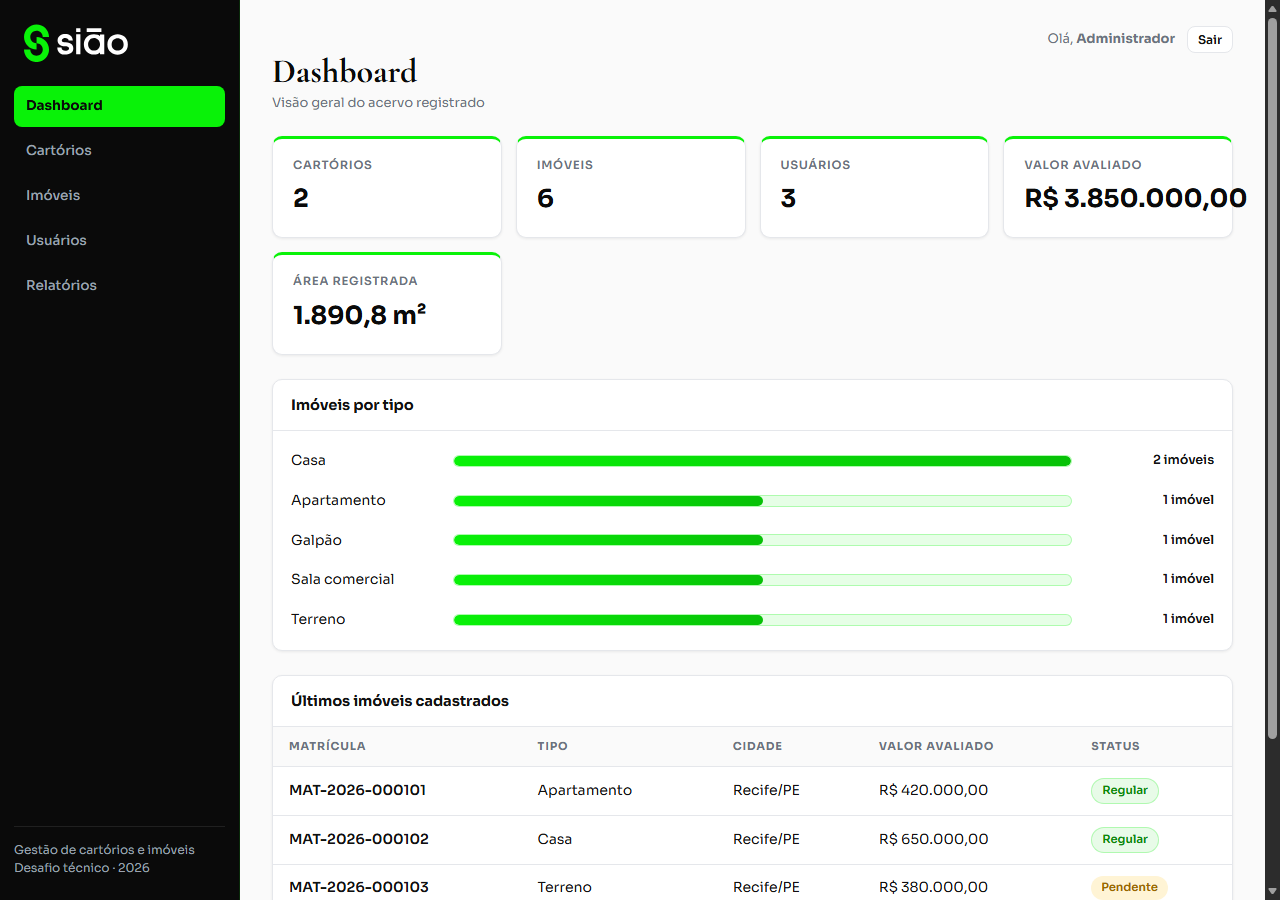
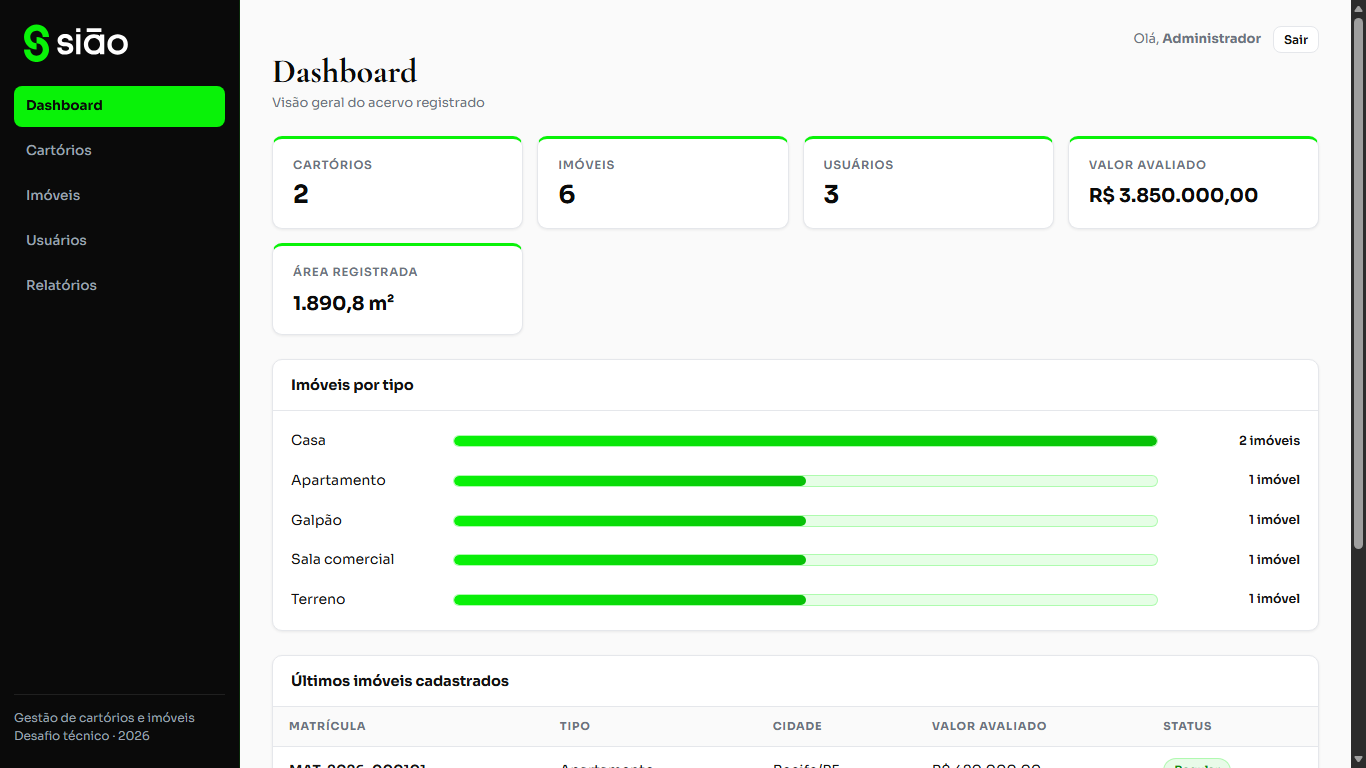
Tabela de imóveis cabe 100% na tela sem rolagem horizontal
- Cartório vira sublinha da matrícula (uma coluna a menos e sem
  nome longo quebrando em 5 linhas)
- Valor e área fundidos em uma coluna (valor principal, área sublinha)
- Células mais densas (padding 12px, corpo 13.5px) e ações sem quebra
- Verificado em 1280px e 1366px; screenshots da docs atualizados

diff --git a/frontend/src/pages/ImoveisPage.tsx b/frontend/src/pages/ImoveisPage.tsx
@@ -228,14 +228,12 @@ export function ImoveisPage() {
             <table>
               <thead>
                 <tr>
-                  <th>Matrícula</th>
+                  <th>Matrícula / Cartório</th>
                   <th>Tipo</th>
                   <th>Endereço</th>
                   <th>Proprietário</th>
-                  <th>Área</th>
-                  <th>Valor avaliado</th>
+                  <th>Valor / Área</th>
                   <th>Status</th>
-                  <th>Cartório</th>
                   <th style={{ textAlign: 'right' }}>Ações</th>
                 </tr>
               </thead>
@@ -243,7 +241,10 @@ export function ImoveisPage() {
                 {lista.dados.map((imovel) => (
                   <tr key={imovel.id}>
                     <td>
-                      <span className="principal-cell">{imovel.matricula}</span>
+                      <div className="principal-cell" style={{ whiteSpace: 'nowrap' }}>
+                        {imovel.matricula}
+                      </div>
+                      <div className="secundaria-cell">{imovel.cartorio?.nome ?? '—'}</div>
                     </td>
                     <td>{TIPOS_IMOVEL[imovel.tipo] ?? imovel.tipo}</td>
                     <td>
@@ -258,16 +259,15 @@ export function ImoveisPage() {
                       <div>{imovel.proprietario_nome}</div>
                       <div className="secundaria-cell">{imovel.proprietario_cpf}</div>
                     </td>
-                    <td>{fmtNum.format(imovel.area_total)} m²</td>
-                    <td>{fmtBRL.format(imovel.valor_avaliado)}</td>
+                    <td className="nowrap">
+                      <div>{fmtBRL.format(imovel.valor_avaliado)}</div>
+                      <div className="secundaria-cell">{fmtNum.format(imovel.area_total)} m²</div>
+                    </td>
                     <td>
                       <BadgeStatus
                         status={imovel.status}
                         rotulo={STATUS_IMOVEL[imovel.status] ?? imovel.status}
                       />
-                    </td>
-                    <td>
-                      <span className="secundaria-cell">{imovel.cartorio?.nome ?? '—'}</span>
                     </td>
                     <td>
                       <div className="acoes-cell">

diff --git a/frontend/src/styles.css b/frontend/src/styles.css
@@ -197,7 +197,7 @@ select {
 }
 
 .btn.mini {
-  padding: 5px 10px;
+  padding: 5px 9px;
   font-size: 12px;
 }
 
@@ -290,16 +290,21 @@ th {
   text-transform: uppercase;
   letter-spacing: 0.9px;
   color: var(--texto-suave);
-  padding: 11px 16px;
+  padding: 10px 12px;
   border-bottom: 1px solid var(--borda);
   background: #FAFAFA;
   white-space: nowrap;
 }
 
 td {
-  padding: 11px 16px;
+  padding: 10px 12px;
   border-bottom: 1px solid var(--borda);
   vertical-align: middle;
+  font-size: 13.5px;
+}
+
+td.nowrap {
+  white-space: nowrap;
 }
 
 tr:last-child td {
@@ -323,6 +328,8 @@ td .secundaria-cell {
   display: flex;
   gap: 6px;
   justify-content: flex-end;
+  flex-wrap: nowrap;
+  white-space: nowrap;
 }
 
 /* ---------- Badges ---------- */
